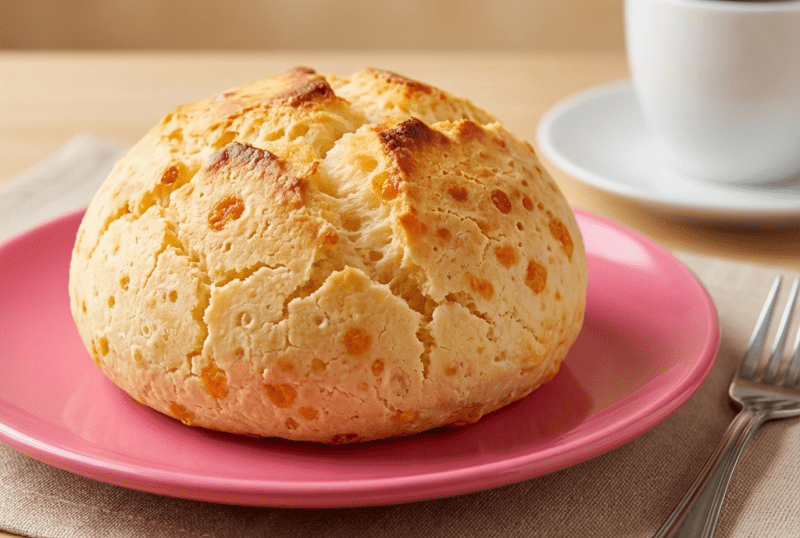
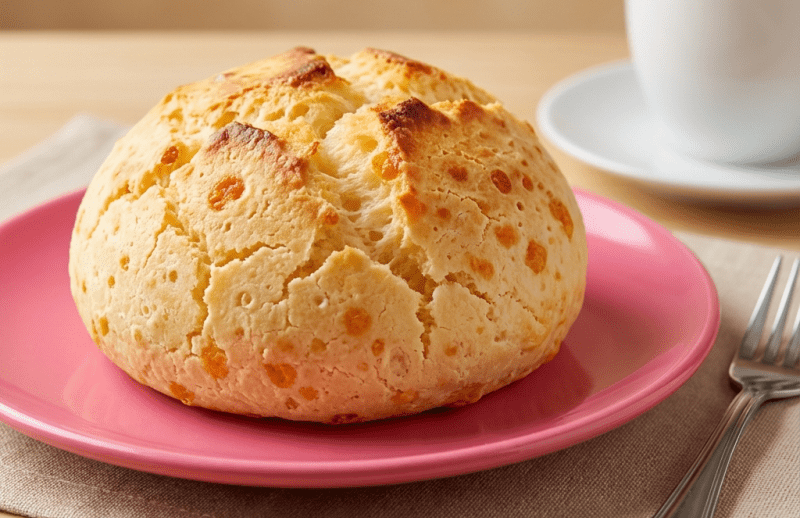
att

diff --git a/src/main/resources/static/produtos.html b/src/main/resources/static/produtos.html
@@ -388,7 +388,10 @@
                                 class="btn btn-primary btn-adicionar" data-produto="Frappé" data-preco="12.00">
                                 Adicionar ao pedido </button> </div>
                     </div>
-                </article> <!-- ========================= --> <!-- PADARIA --> <!-- ========================= -->
+                </article>
+                <!-- ========================= -->
+                <!-- PADARIA -->
+                <!-- ========================= -->
                 <article class="produto-card" data-categoria="PADARIA_CONFEITARIA">
                     <div class="produto-imagem"> <img src="img/paodequeijo.png" alt="Pão de queijo"> </div>
                     <div class="produto-conteudo"> <span class="produto-categoria"> Padaria e confeitaria </span>
@@ -400,7 +403,7 @@
                     </div>
                 </article>
                 <article class="produto-card" data-categoria="PADARIA_CONFEITARIA">
-                    <div class="produto-imagem"> <img src="/img/croissant.jpg" alt="Croissant"> </div>
+                    <div class="produto-imagem"> <img src="img/croassain.png    " alt="Croissant"> </div>
                     <div class="produto-conteudo"> <span class="produto-categoria"> Padaria e confeitaria </span>
                         <h3>Croissant</h3>
                         <p> Croissant leve, crocante e amanteigado. </p>
@@ -410,7 +413,7 @@
                     </div>
                 </article>
                 <article class="produto-card" data-categoria="PADARIA_CONFEITARIA">
-                    <div class="produto-imagem"> <img src="/img/brownie.jpg" alt="Brownie"> </div>
+                    <div class="produto-imagem"> <img src="img/brownie.png" alt="Brownie"> </div>
                     <div class="produto-conteudo"> <span class="produto-categoria"> Padaria e confeitaria </span>
                         <h3>Brownie</h3>
                         <p> Brownie de chocolate com textura macia. </p>
@@ -418,10 +421,12 @@
                                 class="btn btn-primary btn-adicionar" data-produto="Brownie" data-preco="7.50">
                                 Adicionar ao pedido </button> </div>
                     </div>
-                </article> <!-- ========================= --> <!-- LANCHES SALGADOS -->
+                </article>
+                <!-- ========================= -->
+                <!-- LANCHES SALGADOS -->
                 <!-- ========================= -->
                 <article class="produto-card" data-categoria="LANCHES_SALGADOS">
-                    <div class="produto-imagem"> <img src="/img/sanduiche-natural.jpg" alt="Sanduíche natural"> </div>
+                    <div class="produto-imagem"> <img src="img/Sanduichenatural.png" alt="Sanduíche natural"> </div>
                     <div class="produto-conteudo"> <span class="produto-categoria"> Lanches salgados </span>
                         <h3>Sanduíche natural</h3>
                         <p> Sanduíche leve preparado com ingredientes frescos. </p>
@@ -431,7 +436,7 @@
                     </div>
                 </article>
                 <article class="produto-card" data-categoria="LANCHES_SALGADOS">
-                    <div class="produto-imagem"> <img src="/img/misto-quente.jpg" alt="Misto quente"> </div>
+                    <div class="produto-imagem"> <img src="img/Misto-quente.png" alt="Misto quente"> </div>
                     <div class="produto-conteudo"> <span class="produto-categoria"> Lanches salgados </span>
                         <h3>Misto quente</h3>
                         <p> Sanduíche quente com presunto e queijo. </p>
@@ -441,7 +446,7 @@
                     </div>
                 </article>
                 <article class="produto-card" data-categoria="LANCHES_SALGADOS">
-                    <div class="produto-imagem"> <img src="/img/wrap.jpg" alt="Wrap"> </div>
+                    <div class="produto-imagem"> <img src="img/wrap.png" alt="Wrap"> </div>
                     <div class="produto-conteudo"> <span class="produto-categoria"> Lanches salgados </span>
                         <h3>Wrap</h3>
                         <p> Wrap recheado com ingredientes selecionados. </p>
@@ -449,9 +454,12 @@
                                 class="btn btn-primary btn-adicionar" data-produto="Wrap" data-preco="13.00"> Adicionar
                                 ao pedido </button> </div>
                     </div>
-                </article> <!-- ========================= --> <!-- SOBREMESAS --> <!-- ========================= -->
+                </article>
+                <!-- ========================= -->
+                <!-- SOBREMESAS -->
+                <!-- ========================= -->
                 <article class="produto-card" data-categoria="SOBREMESAS">
-                    <div class="produto-imagem"> <img src="/img/pudim.jpg" alt="Pudim"> </div>
+                    <div class="produto-imagem"> <img src="img/pudin.png" alt="Pudim"> </div>
                     <div class="produto-conteudo"> <span class="produto-categoria"> Sobremesas </span>
                         <h3>Pudim</h3>
                         <p> Pudim cremoso com calda de caramelo. </p>
@@ -461,7 +469,7 @@
                     </div>
                 </article>
                 <article class="produto-card" data-categoria="SOBREMESAS">
-                    <div class="produto-imagem"> <img src="/img/brigadeiro.jpg" alt="Brigadeiro gourmet"> </div>
+                    <div class="produto-imagem"> <img src="img/brigadeiro.png" alt="Brigadeiro gourmet"> </div>
                     <div class="produto-conteudo"> <span class="produto-categoria"> Sobremesas </span>
                         <h3>Brigadeiro gourmet</h3>
                         <p> Brigadeiro artesanal preparado com chocolate. </p>
@@ -471,7 +479,7 @@
                     </div>
                 </article>
                 <article class="produto-card" data-categoria="SOBREMESAS">
-                    <div class="produto-imagem"> <img src="/img/petit-gateau.jpg" alt="Petit gâteau"> </div>
+                    <div class="produto-imagem"> <img src="img/petit.png" alt="Petit gâteau"> </div>
                     <div class="produto-conteudo"> <span class="produto-categoria"> Sobremesas </span>
                         <h3>Petit gâteau</h3>
                         <p> Bolinho de chocolate com recheio cremoso. </p>
@@ -479,10 +487,12 @@
                                 class="btn btn-primary btn-adicionar" data-produto="Petit gâteau" data-preco="14.00">
                                 Adicionar ao pedido </button> </div>
                     </div>
-                </article> <!-- ========================= --> <!-- OPÇÕES SAUDÁVEIS -->
+                </article>
+                <!-- ========================= -->
+                <!-- OPÇÕES SAUDÁVEIS -->
                 <!-- ========================= -->
                 <article class="produto-card" data-categoria="OPCOES_SAUDAVEIS">
-                    <div class="produto-imagem"> <img src="/img/salada-de-frutas.jpg" alt="Salada de frutas"> </div>
+                    <div class="produto-imagem"> <img src="img/saladadefruta.png" alt="Salada de frutas"> </div>
                     <div class="produto-conteudo"> <span class="produto-categoria"> Opções saudáveis </span>
                         <h3>Salada de frutas</h3>
                         <p> Seleção de frutas frescas. </p>
@@ -492,7 +502,8 @@
                     </div>
                 </article>
                 <article class="produto-card" data-categoria="OPCOES_SAUDAVEIS">
-                    <div class="produto-imagem"> <img src="/img/iogurte-granola.jpg" alt="Iogurte com granola"> </div>
+                    <div class="produto-imagem"> <img src="img/iogurte-com-granola.png" alt="Iogurte com granola">
+                    </div>
                     <div class="produto-conteudo"> <span class="produto-categoria"> Opções saudáveis </span>
                         <h3>Iogurte com granola</h3>
                         <p> Iogurte cremoso acompanhado de granola. </p>
@@ -502,7 +513,7 @@
                     </div>
                 </article>
                 <article class="produto-card" data-categoria="OPCOES_SAUDAVEIS">
-                    <div class="produto-imagem"> <img src="/img/acai.jpg" alt="Açaí"> </div>
+                    <div class="produto-imagem"> <img src="img/acai.png" alt="Açaí"> </div>
                     <div class="produto-conteudo"> <span class="produto-categoria"> Opções saudáveis </span>
                         <h3>Açaí</h3>
                         <p> Açaí cremoso servido gelado. </p>
@@ -510,5 +521,157 @@
                                 class="btn btn-primary btn-adicionar" data-produto="Açaí" data-preco="13.00"> Adicionar
                                 ao pedido </button> </div>
                     </div>
-                 </article> <!-- ========================= --> <!-- PRODUTOS PARA VENDA -->
+                </article>
                 <!-- ========================= -->
+                <!-- PRODUTOS PARA VENDA -->
+                <!-- ========================= -->
+                <article class="produto-card" data-categoria="PRODUTOS_VENDA">
+
+                    <div class="produto-imagem">
+                        <img src="img/cafeespecial.png" alt="Grãos de café especiais">
+                    </div>
+
+                    <div class="produto-conteudo">
+
+                        <span class="produto-categoria">
+                            Produtos para venda
+                        </span>
+
+                        <h3>Grãos de café especiais</h3>
+
+                        <p>
+                            Grãos selecionados para preparar seu café em casa.
+                        </p>
+
+                        <div class="produto-rodape">
+
+                            <strong>
+                                R$ 32,00
+                            </strong>
+
+                            <button type="button" class="btn btn-primary btn-adicionar"
+                                data-produto="Grãos de café especiais" data-preco="32.00">
+
+                                Adicionar ao pedido
+
+                            </button>
+
+                        </div>
+
+                    </div>
+
+                </article>
+
+
+                <article class="produto-card" data-categoria="PRODUTOS_VENDA">
+
+                    <div class="produto-imagem">
+                        <img src="img/caneca.jpg" alt="Caneca personalizada">
+                    </div>
+
+                    <div class="produto-conteudo">
+
+                        <span class="produto-categoria">
+                            Produtos para venda
+                        </span>
+
+                        <h3>Caneca personalizada</h3>
+
+                        <p>
+                            Caneca personalizada da Cafeteria Segura.
+                        </p>
+
+                        <div class="produto-rodape">
+
+                            <strong>
+                                R$ 35,00
+                            </strong>
+
+                            <button type="button" class="btn btn-primary btn-adicionar"
+                                data-produto="Caneca personalizada" data-preco="35.00">
+
+                                Adicionar ao pedido
+
+                            </button>
+
+                        </div>
+
+                    </div>
+
+                </article>
+
+
+                <article class="produto-card" data-categoria="PRODUTOS_VENDA">
+
+                    <div class="produto-imagem">
+                        <img src="/img/copo-termico.jpg" alt="Copo térmico">
+                    </div>
+
+                    <div class="produto-conteudo">
+
+                        <span class="produto-categoria">
+                            Produtos para venda
+                        </span>
+
+                        <h3>Copo térmico</h3>
+
+                        <p>
+                            Copo térmico reutilizável para bebidas quentes ou geladas.
+                        </p>
+
+                        <div class="produto-rodape">
+
+                            <strong>
+                                R$ 45,00
+                            </strong>
+
+                            <button type="button" class="btn btn-primary btn-adicionar" data-produto="Copo térmico"
+                                data-preco="45.00">
+
+                                Adicionar ao pedido
+
+                            </button>
+
+                        </div>
+
+                    </div>
+
+                </article>
+
+            </section>
+
+        </div>
+
+    </main>
+
+
+    <!-- FOOTER -->
+    <footer class="site-footer">
+
+        <div class="container site-footer-inner">
+
+            <strong>
+                ☕ Cafeteria Segura
+            </strong>
+
+            <small>
+                &copy; 2026 Cafeteria Segura.
+                Todos os direitos reservados.
+            </small>
+
+        </div>
+
+    </footer>
+
+
+    <!-- Bootstrap -->
+    <script src="https://cdn.jsdelivr.net/npm/bootstrap@5.3.8/dist/js/bootstrap.bundle.min.js"
+        integrity="sha384-FKyoEForCGlyvwxH9j09JcYn3nv7wiPVlz7YYjR8ZK/BmnVDxM+D2scQbITxI" crossorigin="anonymous">
+        </script>
+
+    <!-- JavaScript -->
+    <script src="/js/produtos.js"></script>
+
+</body>
+
+</html>
